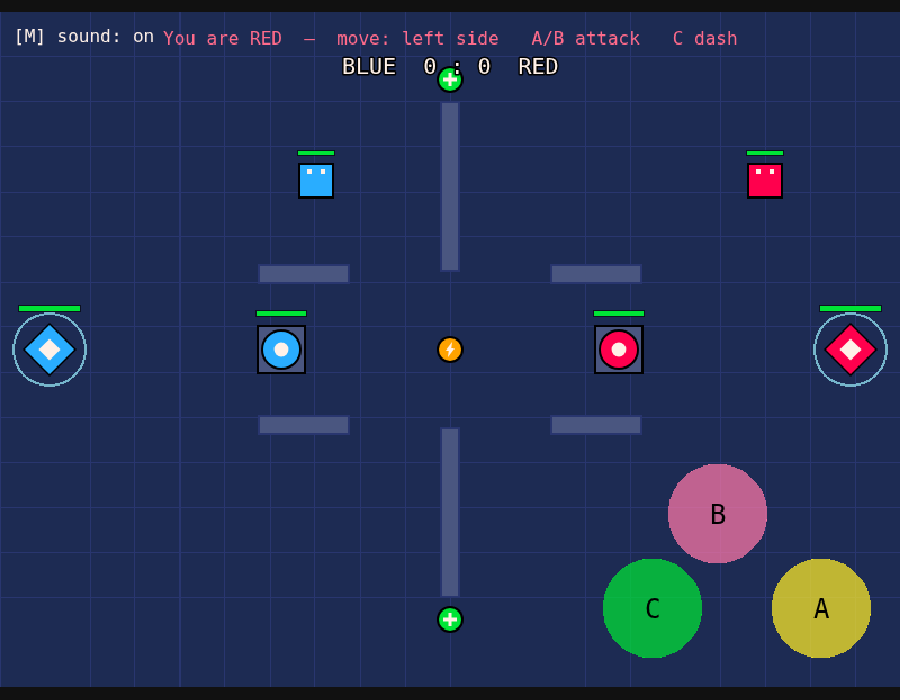
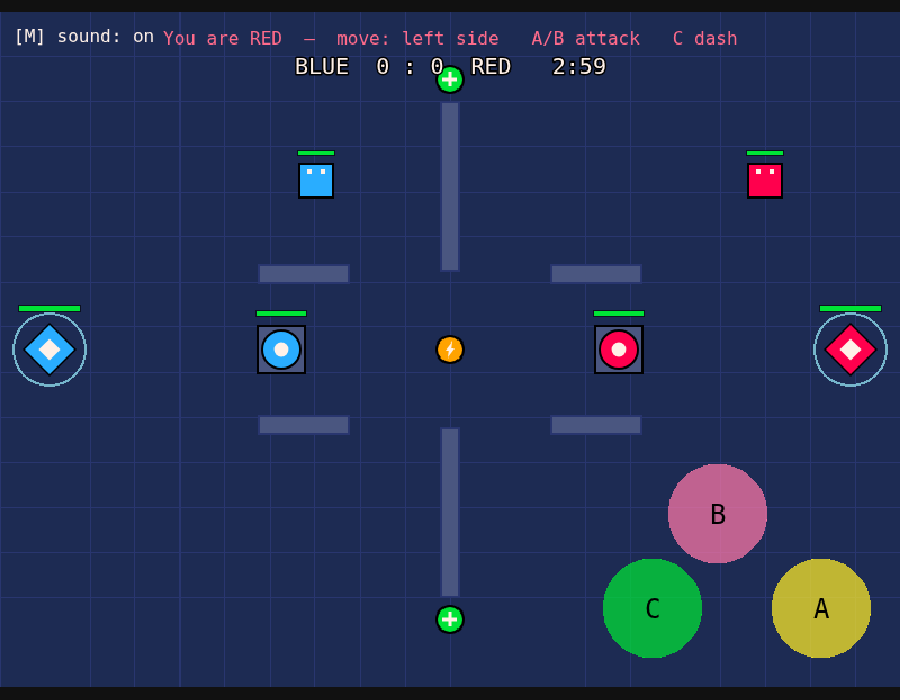
Add a match timer with a kill/HP tiebreak (no more stalemates)
A match now has a hard time limit (MATCH.maxDurationMs, default 3 min). If
neither base falls in time, the team ahead on kills wins; a kill tie breaks on
base HP (healthier base = better defended), and a dead-even match is a draw.
This stops two evenly-matched players from stalling forever behind their towers.

Server: beginPlaying arms matchEndsAt; step() ends the match via endByTimeout()
when the clock runs out (disarmed = Infinity otherwise, so tests that set
phase=playing directly are unaffected). Snapshots carry timeLeft (seconds).
resetMatch disarms the clock until the next kickoff.

Client: the scoreboard now shows the match clock (m:ss) during play, and the
game-over banner handles a "draw" winner ("DRAW! / Time! It's a draw." + final
score). NetClient stores timeLeft.

New m24.timer (server: clock reported, timeout decided by kills then base HP
then draw, clock disarms on reset) and m24.timer.render (clock on the scoreboard,
draw banner). 37/37 test groups pass; live two-browser test passes; build OK.
README + HOW-TO updated.

https://claude.ai/code/session_01MAXKRUpJFcKFAvV2b8xTXo

Changed region(s): [[0.3111, 0.06, 0.6844, 0.15], [0.4667, 0.87, 0.5289, 0.9], [0.4667, 0.48, 0.5289, 0.51]]

diff --git a/src/net/GameServer.js b/src/net/GameServer.js
@@ -65,6 +65,7 @@ export default class GameServer {
     this.winner = null; // team that won, when phase === "over"
     this.resetAt = 0; // when an "over" match resets (ms on our sim clock)
     this.startAt = 0; // when a "countdown" flips to "playing" (ms)
+    this.matchEndsAt = Infinity; // hard time limit; armed by beginPlaying
   }
 
   resetBases() {
@@ -290,6 +291,21 @@ export default class GameServer {
     this.phase = "playing";
     this.minions = [];
     this.nextWaveAt = this.timeMs + MINION.firstWaveMs;
+    this.matchEndsAt = this.timeMs + MATCH.maxDurationMs;
+  }
+
+  // The match ran out of time: the team ahead on kills wins, ties broken by
+  // base HP (healthier base = better defended), and a true tie is a draw.
+  endByTimeout() {
+    this.phase = "over";
+    this.resetAt = this.timeMs + MATCH.resetMs;
+    if (this.score.blue !== this.score.red) {
+      this.winner = this.score.blue > this.score.red ? "blue" : "red";
+    } else {
+      const b = this.bases.get("blue").hp;
+      const r = this.bases.get("red").hp;
+      this.winner = b === r ? "draw" : b > r ? "blue" : "red";
+    }
   }
 
   // Spawn one wave for each team, just in front of its base, staggered across
@@ -489,6 +505,12 @@ export default class GameServer {
       return;
     }
 
+    // Out of time? Decide the match on kills (then base HP).
+    if (this.timeMs >= this.matchEndsAt) {
+      this.endByTimeout();
+      return;
+    }
+
     // 1) Move players; remember facing for the aim fallback.
     for (const p of this.players.values()) {
       if (!p.alive) {
@@ -658,6 +680,7 @@ export default class GameServer {
     this.projectiles = [];
     this.minions = [];
     this.nextWaveAt = Infinity; // re-armed by beginPlaying on the next match
+    this.matchEndsAt = Infinity; // ...likewise the time limit
     this.winner = null;
     // Return to the lobby; if enough players are still here, evaluateLobby
     // immediately kicks off a fresh "get ready" countdown.
@@ -683,6 +706,11 @@ export default class GameServer {
       countdown:
         this.phase === "countdown"
           ? Math.max(0, Math.ceil((this.startAt - this.timeMs) / 1000))
+          : 0,
+      // Seconds left on the match clock (0 unless a timed match is in progress).
+      timeLeft:
+        this.phase === "playing" && isFinite(this.matchEndsAt)
+          ? Math.max(0, Math.ceil((this.matchEndsAt - this.timeMs) / 1000))
           : 0,
       players: [...this.players.values()].map((p) => ({
         id: p.id,

diff --git a/src/scenes/ArenaScene.js b/src/scenes/ArenaScene.js
@@ -402,16 +402,15 @@ export default class ArenaScene extends Phaser.Scene {
 
   updateGameOver() {
     if (this.net.phase === "over" && this.net.winner) {
-      const iWon = this.net.team && this.net.team === this.net.winner;
-      const who = this.net.winner === "blue" ? "BLUE" : "RED";
+      const winner = this.net.winner;
+      const draw = winner === "draw";
+      const iWon = !draw && this.net.team && this.net.team === winner;
+      const who = draw ? "DRAW!" : `${winner === "blue" ? "BLUE" : "RED"} WINS!`;
+      const line2 = draw ? "Time! It's a draw." : iWon ? "You win! 🎉" : "You lose…";
       const s = this.net.score || { blue: 0, red: 0 };
       this.gameOverText
-        .setText(
-          `${who} WINS!\n` +
-            (iWon ? "You win! 🎉" : "You lose…") +
-            `\nFinal score  BLUE ${s.blue} – ${s.red} RED`
-        )
-        .setColor(this.net.winner === "blue" ? "#9bd9ff" : "#ff6b8b")
+        .setText(`${who}\n${line2}\nFinal score  BLUE ${s.blue} – ${s.red} RED`)
+        .setColor(draw ? "#fff1e8" : winner === "blue" ? "#9bd9ff" : "#ff6b8b")
         .setVisible(true);
       // Play the victory jingle once when the match ends.
       if (!this.wonPlayed) {
@@ -422,6 +421,11 @@ export default class ArenaScene extends Phaser.Scene {
       this.gameOverText.setVisible(false);
       this.wonPlayed = false; // re-arm for the next match
     }
+  }
+
+  // Format seconds as m:ss for the match clock.
+  fmtClock(sec) {
+    return `${Math.floor(sec / 60)}:${String(sec % 60).padStart(2, "0")}`;
   }
 
   // The corner kill feed: most recent knockouts on top, colored by the team
@@ -445,10 +449,13 @@ export default class ArenaScene extends Phaser.Scene {
     }
   }
 
-  // The team scoreboard, and a respawn countdown while the local hero is down.
+  // The team scoreboard (with the match clock), and a respawn countdown while
+  // the local hero is down.
   updateHud() {
     const s = this.net.score || { blue: 0, red: 0 };
-    this.scoreText.setText(`BLUE  ${s.blue} : ${s.red}  RED`);
+    const t = this.net.timeLeft || 0;
+    const clock = this.net.phase === "playing" && t > 0 ? `   ${this.fmtClock(t)}` : "";
+    this.scoreText.setText(`BLUE  ${s.blue} : ${s.red}  RED${clock}`);
 
     const me = this.net.players.find((p) => p.id === this.net.localId);
     if (this.net.phase === "playing" && me && !me.alive) {

diff --git a/src/net/NetClient.js b/src/net/NetClient.js
@@ -25,6 +25,7 @@ export default class NetClient {
     this.winner = null; // winning team when phase === "over"
     this.needed = 0; // players needed for a match to start (for the lobby text)
     this.countdown = 0; // seconds left on the "get ready" countdown, else 0
+    this.timeLeft = 0; // seconds left on the match clock (0 if untimed/not playing)
     this.tick = 0;
     this.connected = false;
     this._listeners = { welcome: [], state: [], full: [] };
@@ -89,6 +90,7 @@ export default class NetClient {
       this.winner = msg.winner || null;
       this.needed = msg.needed || 0;
       this.countdown = msg.countdown || 0;
+      this.timeLeft = msg.timeLeft || 0;
       this.tick = msg.tick;
       this._emit("state", msg);
     } else if (msg.t === "full") {

diff --git a/src/config.js b/src/config.js
@@ -217,6 +217,10 @@ export const MATCH = {
   // A short "get ready" countdown after enough players are present, before
   // the action starts. In milliseconds.
   countdownMs: 3000,
+
+  // Hard time limit for a match. If neither base falls in time, the team ahead
+  // on kills wins (ties broken by base HP, then a draw). In milliseconds.
+  maxDurationMs: 180000, // 3 minutes
 };
 
 // --- Touch UI layout --------------------------------------------------------

diff --git a/README.md b/README.md
@@ -98,9 +98,11 @@ both teams, but contested). Grab a green **heal** orb to restore HP, or an
 orange **power** orb to boost your attack damage for a few seconds (you'll glow).
 Taken orbs reappear on a timer.
 
-**Scoreboard & respawns:** a team kill scoreboard sits at the top of the screen,
-and when you're knocked out a "Respawning in N…" countdown tells you how long
-until you're back in the fight.
+**Scoreboard, clock & respawns:** a team kill scoreboard and a match clock sit at
+the top of the screen, recent knockouts scroll by in a corner kill feed, and when
+you're knocked out a "Respawning in N…" countdown tells you how long until you're
+back. If neither base falls before time runs out, the team ahead on kills wins
+(ties broken by base HP — or a draw).
 
 ### Play on your phone (same Wi-Fi)
 

diff --git a/docs/HOW-TO-KEEP-BUILDING.md b/docs/HOW-TO-KEEP-BUILDING.md
@@ -23,6 +23,7 @@ Change a value, save, refresh. Examples:
 | Faster ability cooldown | `COMBAT.ability.cd` | `1500` (=1.5s) |
 | Tougher bases (longer matches) | `BASE.maxHp` | `400` |
 | Quicker respawns | `COMBAT.respawnMs` | `1000` |
+| Longer/shorter time limit | `MATCH.maxDurationMs` | `300000` (=5 min) |
 | Different team colors | `COLORS.blueTeam` / `redTeam` | any `0xRRGGBB` hex |
 
 `0xRRGGBB` is how colors are written in code: `0x` then a 6-digit hex color
